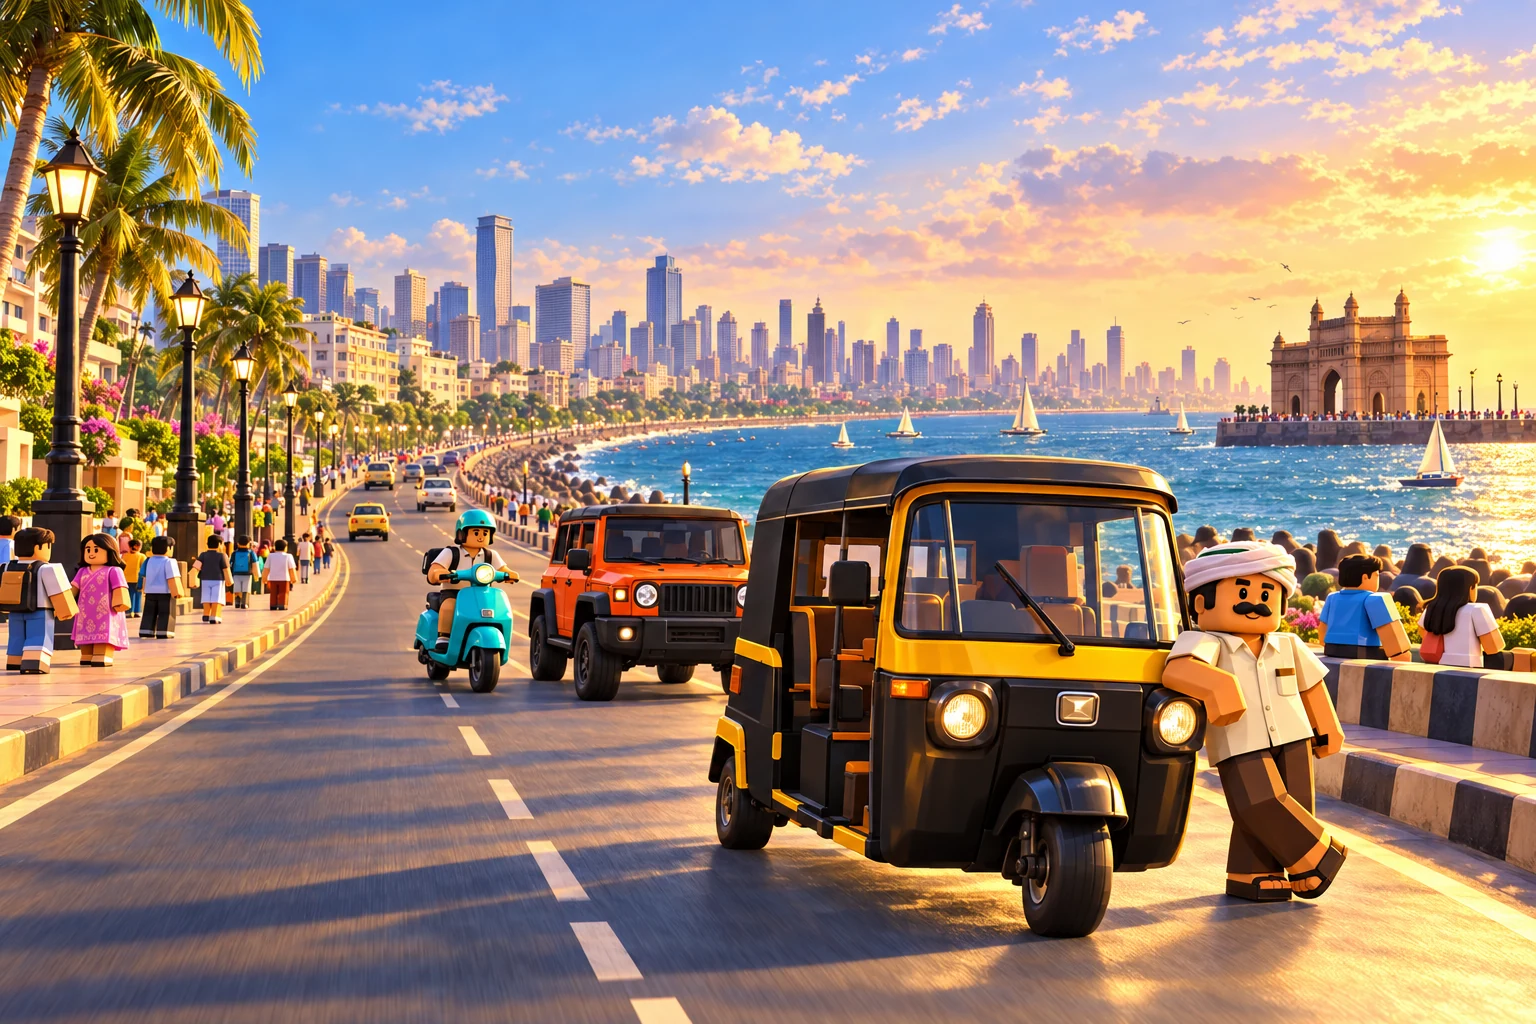
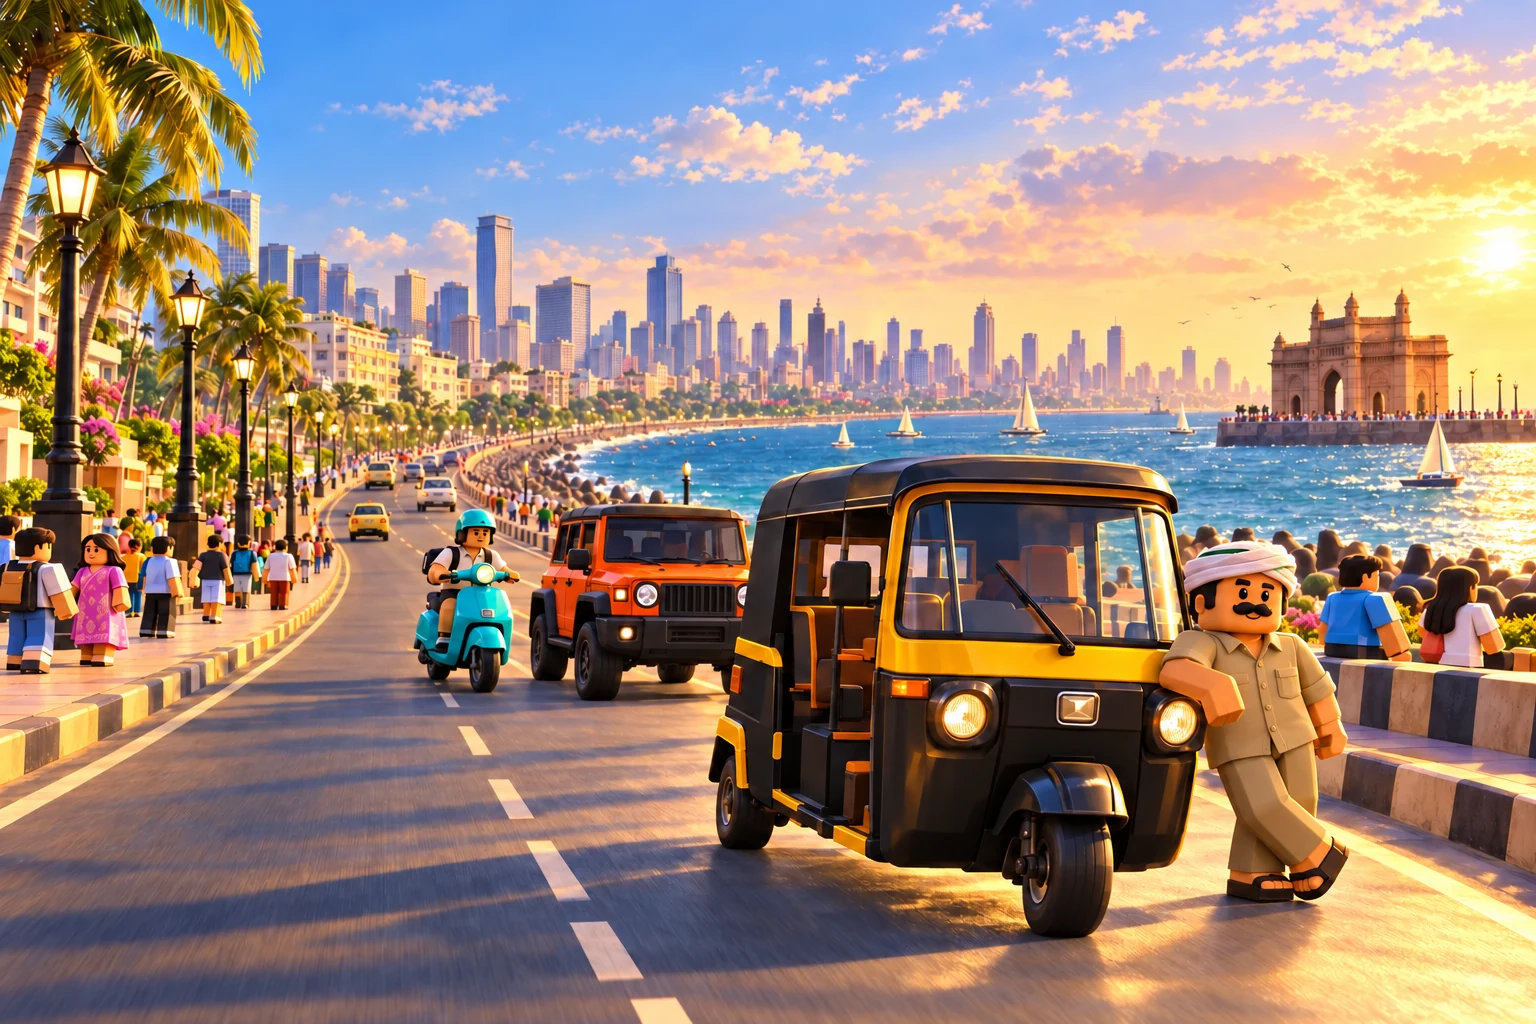
Update Mumbai auto driver to khaki uniform

diff --git a/docs/storyboard/README.md b/docs/storyboard/README.md
@@ -20,6 +20,8 @@ The vehicle-to-city pairings are illustrative. All five vehicles remain selectab
 
 ### Shared art direction
 
+- Mumbai auto driver uniform: warm tan khaki collared button-up shirt with a chest pocket and rolled sleeves, plus matching full-length khaki trousers, based on the supplied clothing reference. The landing-page hero reflects this updated wardrobe; use it for future driver assets. Earlier storyboard panels retain their original clothing.
+
 - Original blocky characters: square heads, simple friendly faces, chunky limbs, readable clothes, and a consistent human scale. Use the Roblox-like proportions as a stylistic reference while building original meshes and textures.
 - NPC roles: chai seller, commuter, kurta-wearing pedestrian, traffic officer, and delivery rider. Vary clothing, skin tone, hair, and accessories. Keep pedestrians on pavements in the first version.
 - Vehicles: compact three-wheeled auto, upright off-road SUV, longer large SUV, turquoise scooter, and orange sport motorcycle. Use original silhouettes and omit manufacturer badges. Riders wear helmets.
